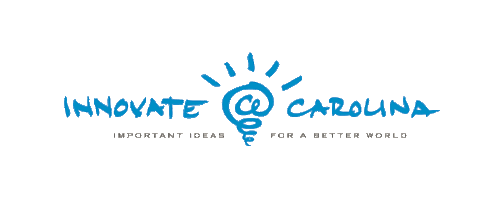
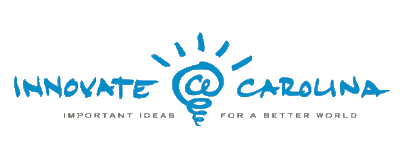
better resizing

Changed region(s): [[0.03, 0.1875, 0.99, 0.7812]]

diff --git a/support/css/support.css b/support/css/support.css
@@ -9,8 +9,8 @@
 #sponsors img {
 	max-width: 80%;
 	margin: auto;
-	margin-top: 40px;
-	margin-bottom: 40px;
+	margin-top: 5%;
+	margin-bottom: 5%;
 }
 
 @media (max-width: 769px) {
